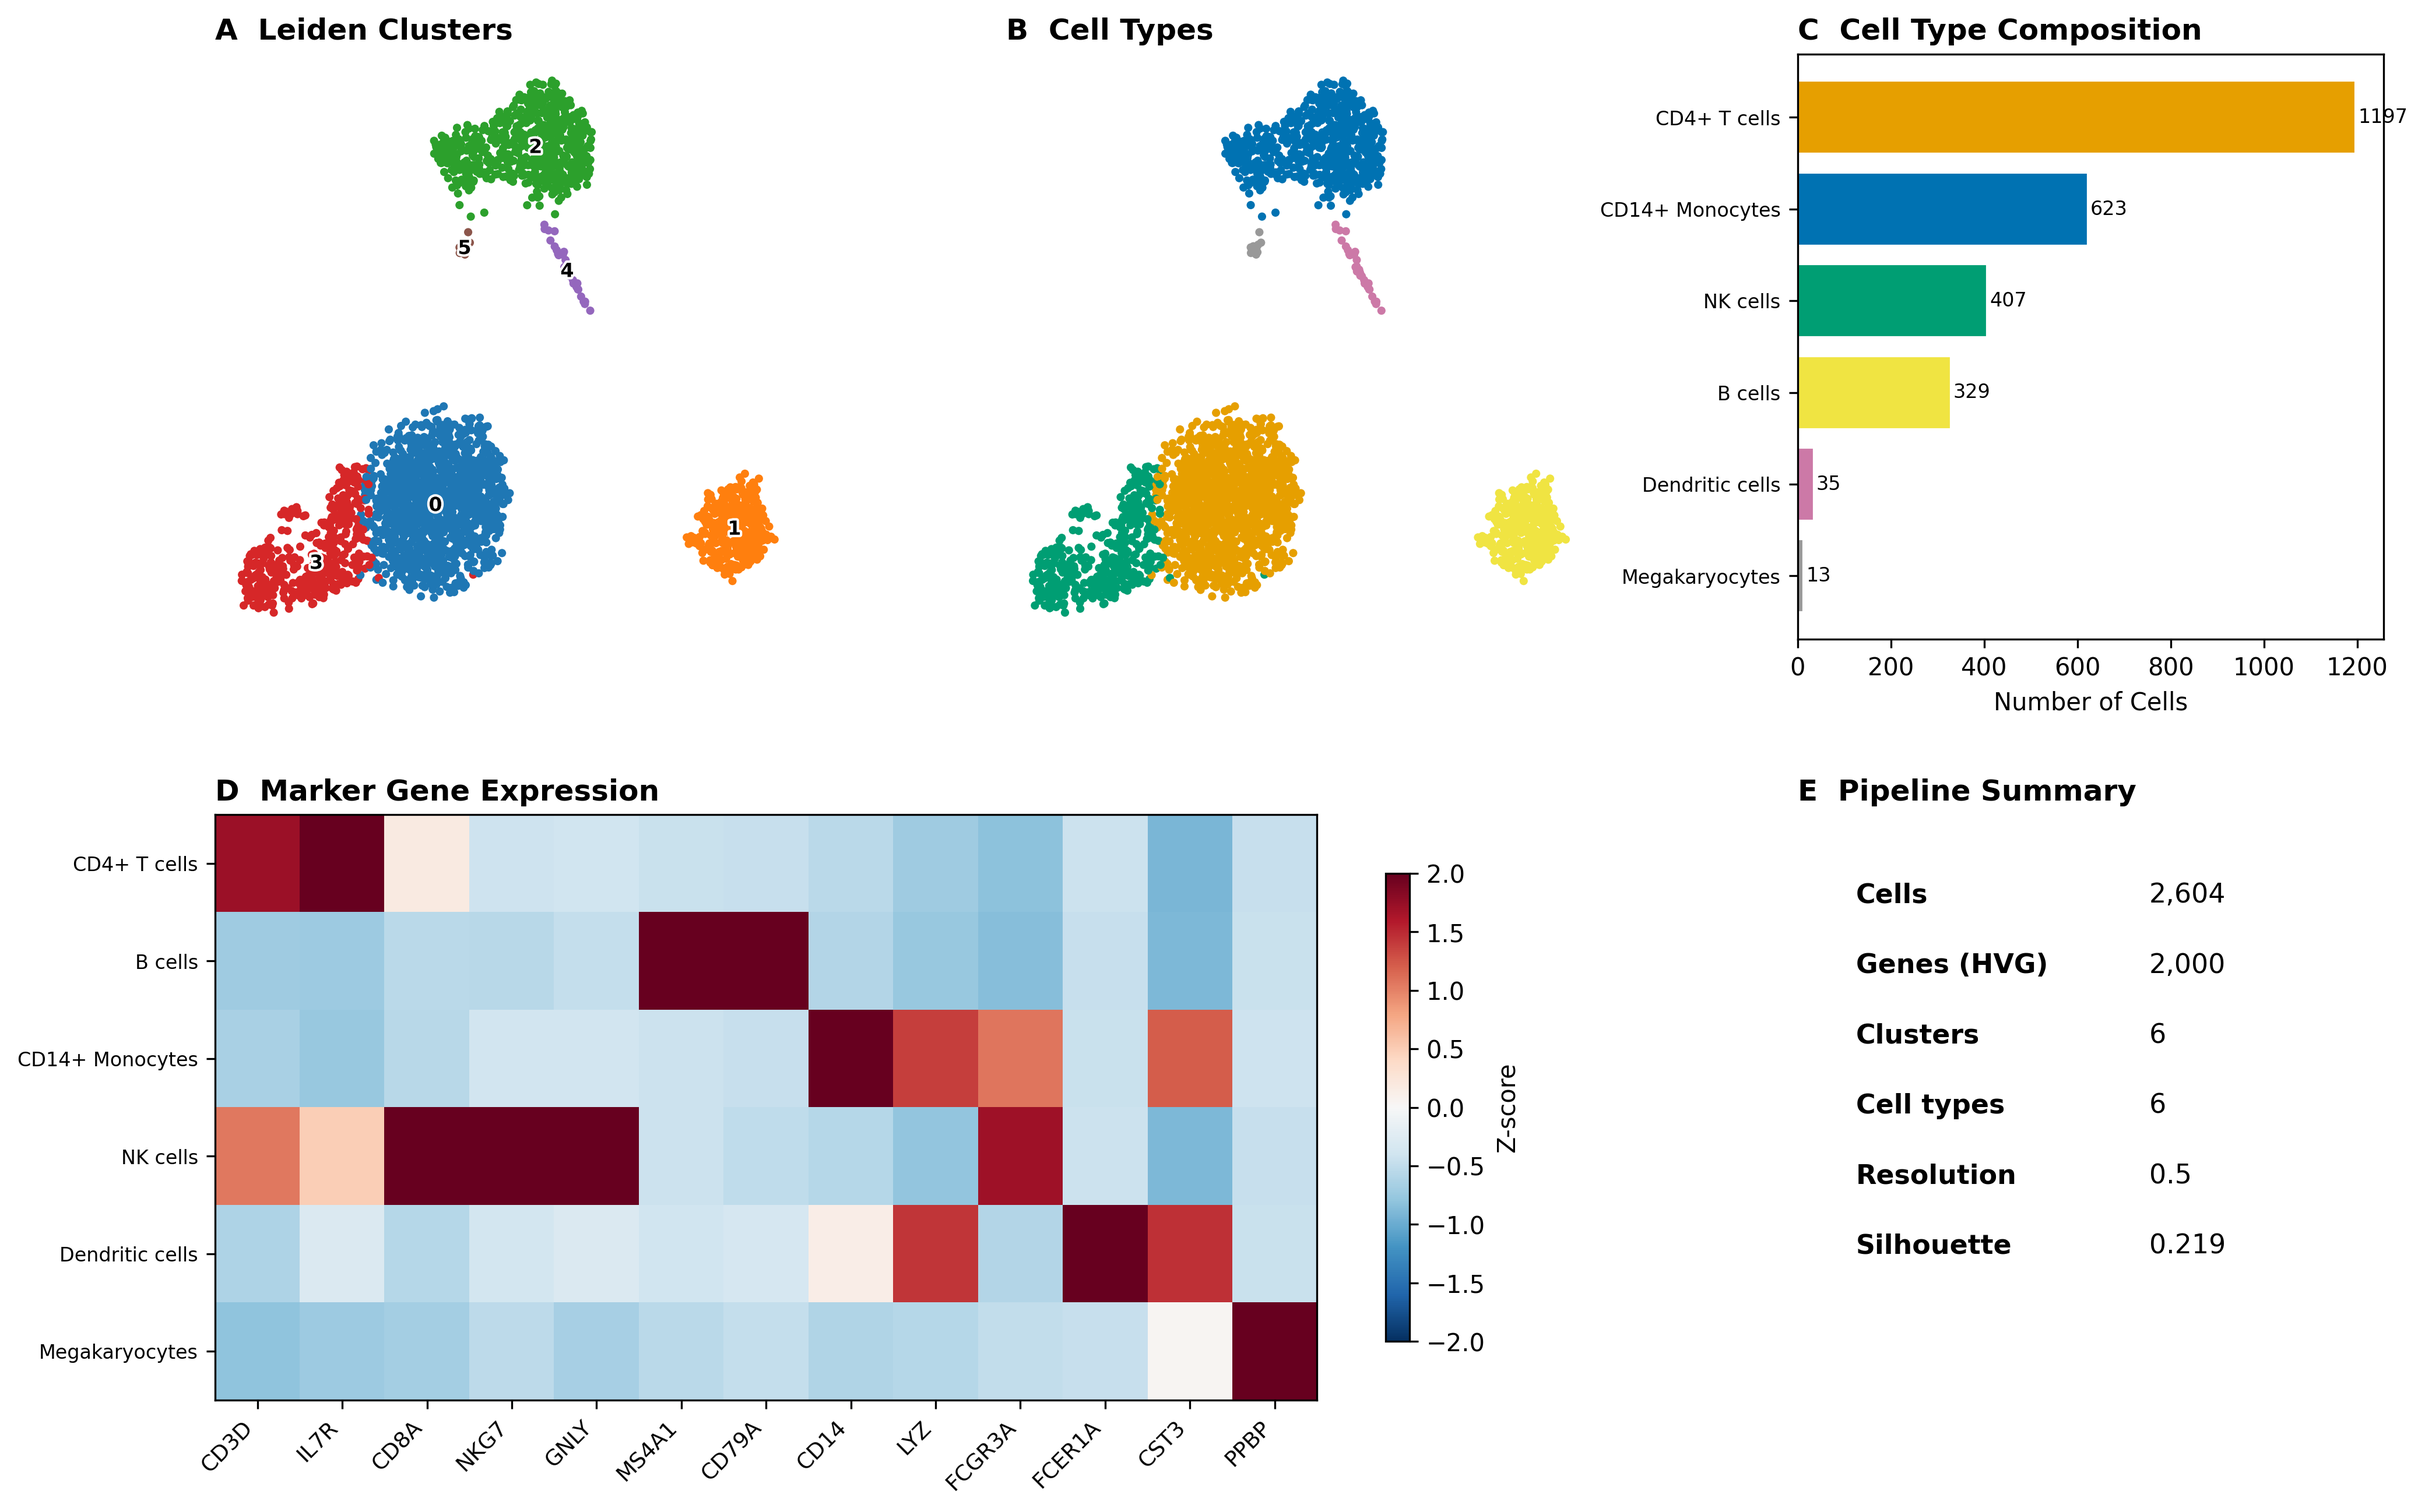
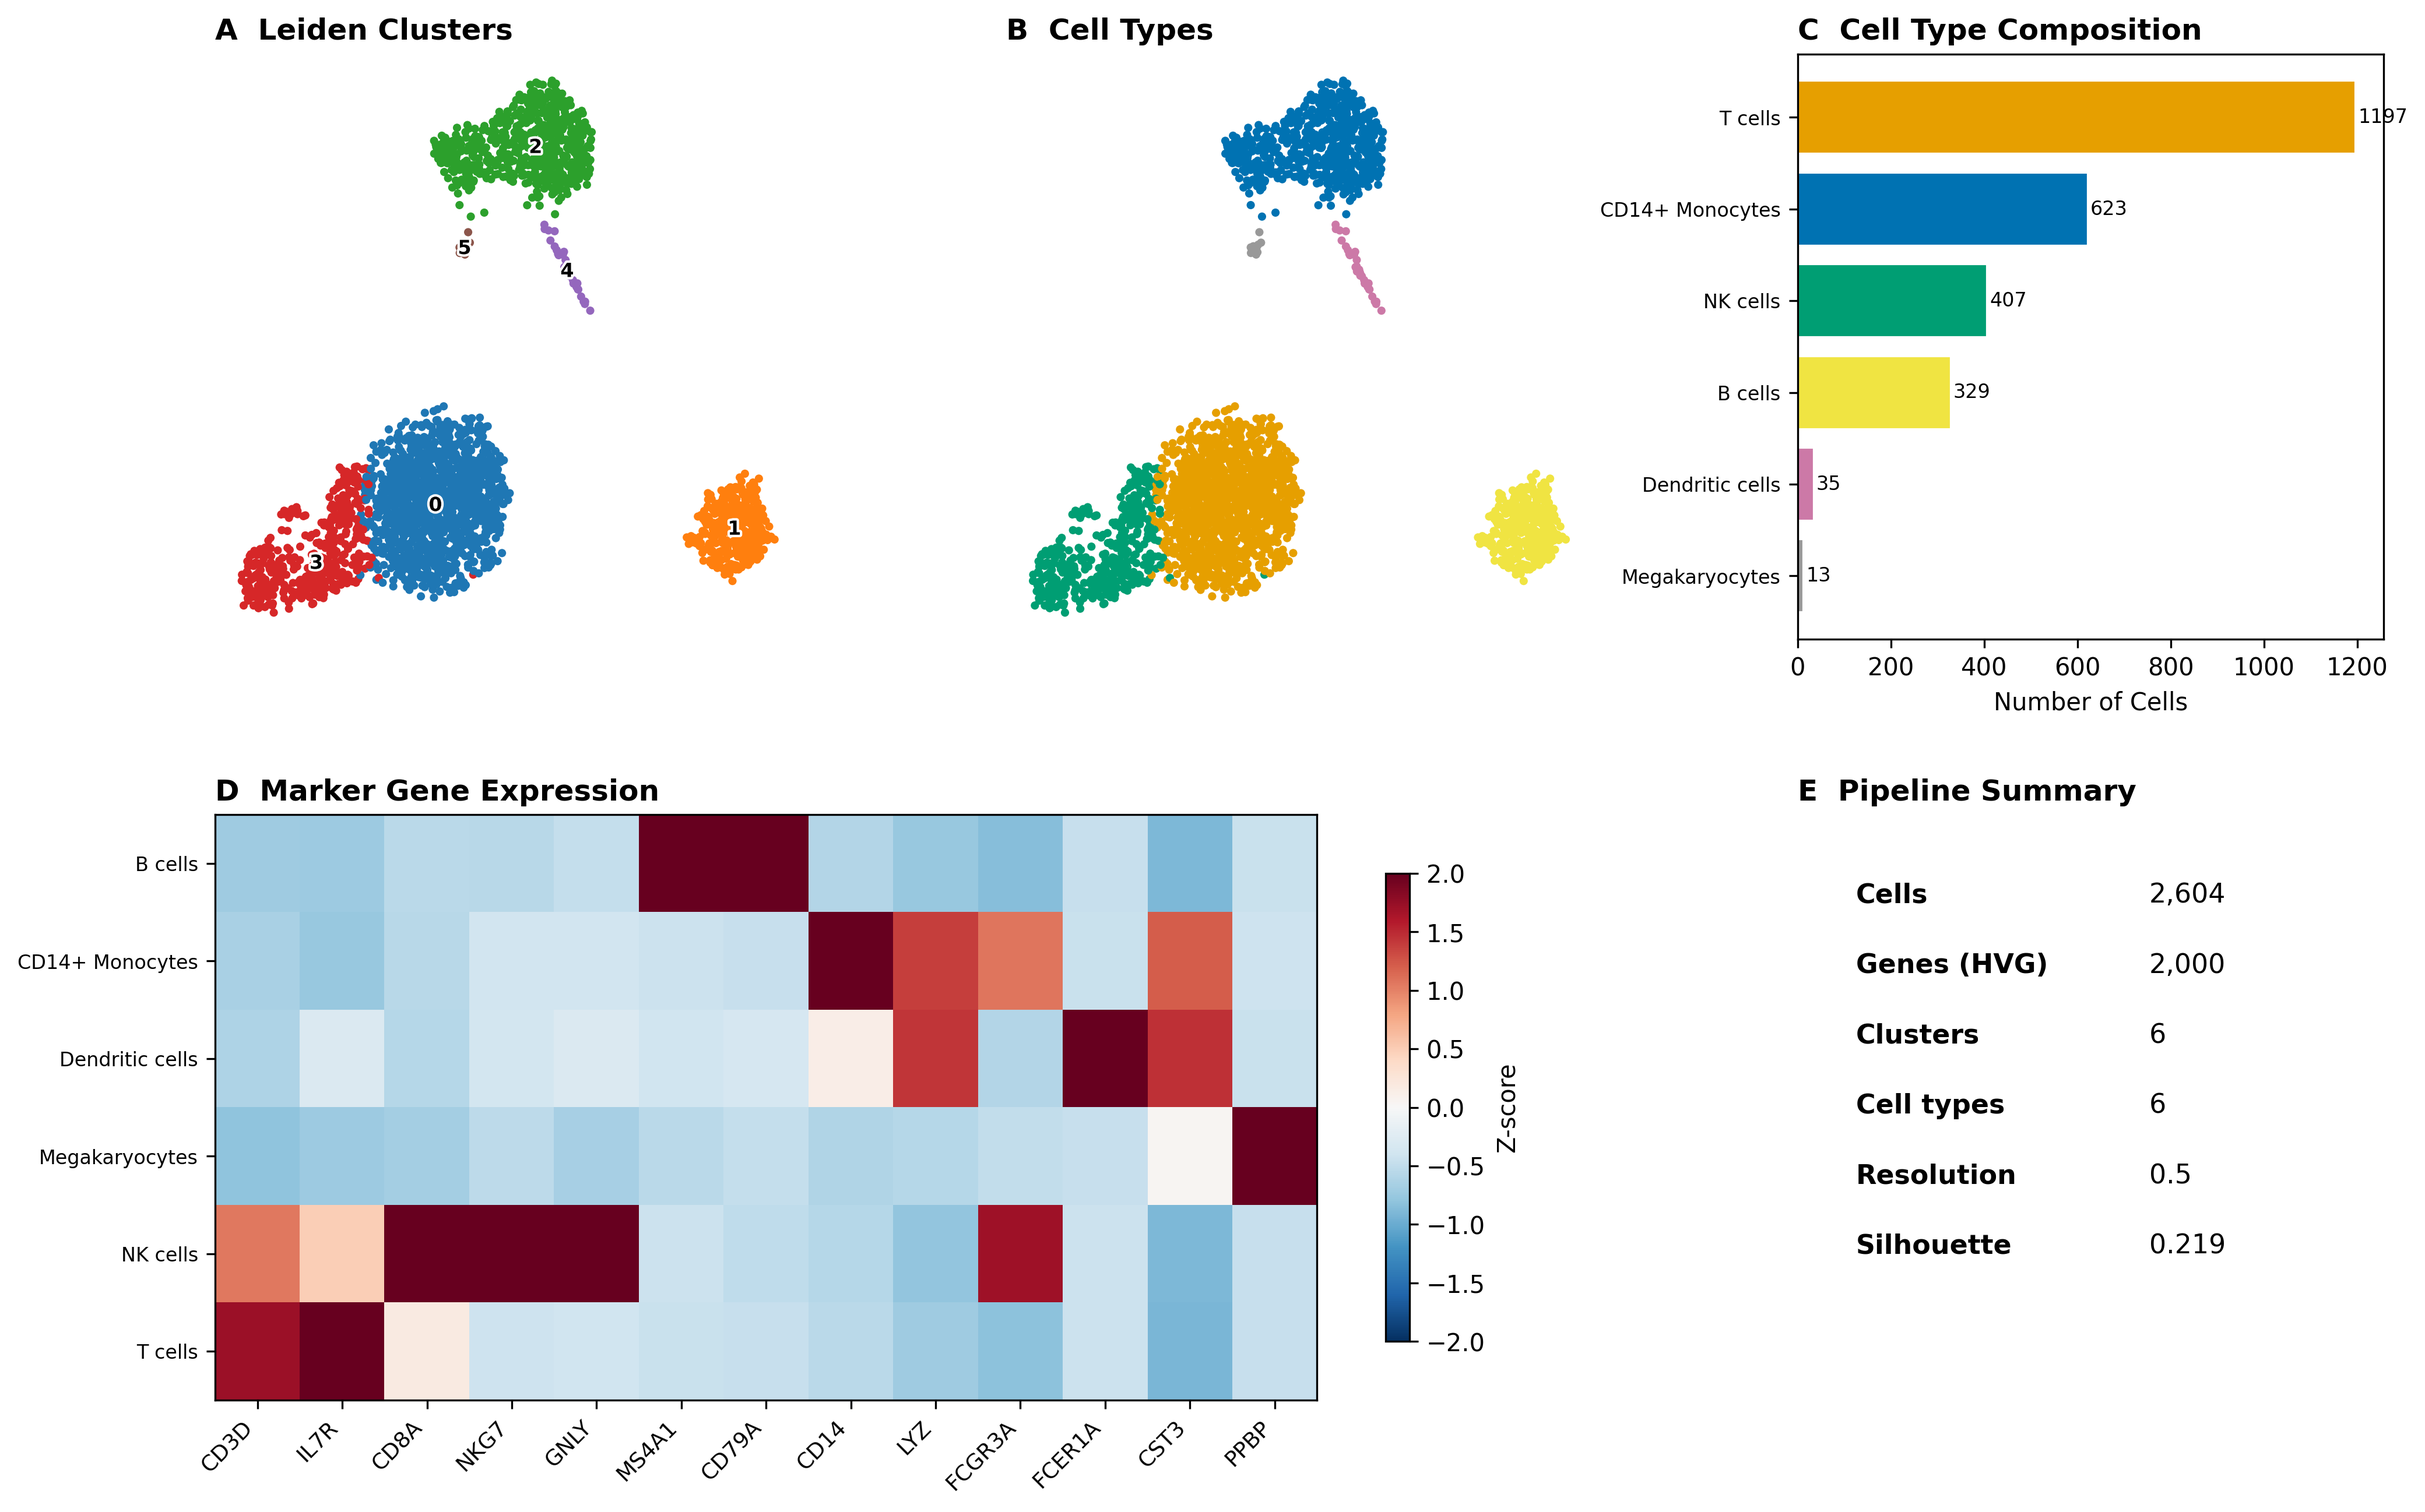
Show verified T-cell refinement in the rotating cell view

diff --git a/tests/test_visual_labels.py b/tests/test_visual_labels.py
@@ -1,0 +1,47 @@
+"""Ensure prominent figures use the correct annotation level and cell identities."""
+
+import importlib.util
+from pathlib import Path
+
+import anndata as ad
+import numpy as np
+import pytest
+
+spec = importlib.util.spec_from_file_location(
+    "visual_labels", Path(__file__).resolve().parents[1] / "scripts/visual_labels.py"
+)
+labels = importlib.util.module_from_spec(spec)
+spec.loader.exec_module(labels)
+
+
+def example():
+    parent = ad.AnnData(np.ones((4, 2)))
+    parent.obs_names = ["a", "b", "c", "d"]
+    parent.obs["cell_type"] = ["CD4+ T cells", "B cells", "CD4+ T cells", "CD8+ T cells"]
+    subset = parent[["d", "a", "c"]].copy()
+    subset.obs["t_subtype"] = ["CD8+ T", "CD4+ T", "CD8+ T"]
+    return parent, subset
+
+
+def test_refined_labels_follow_cell_ids_not_row_order():
+    parent, subset = example()
+    assert labels.refined_cell_types(parent, subset).tolist() == [
+        "CD4-like T cells", "B cells", "CD8-like T cells", "CD8-like T cells",
+    ]
+    assert labels.broad_cell_types(parent).tolist() == ["T cells", "B cells", "T cells", "T cells"]
+    assert parent.obs.loc["a", "cell_type"] == "CD4+ T cells"
+
+
+@pytest.mark.parametrize("case", ["missing", "unrelated", "duplicate", "unknown_subtype"])
+def test_incomplete_or_misaligned_refinement_cannot_generate_a_figure(case):
+    parent, subset = example()
+    if case == "missing":
+        subset = subset[:2].copy()
+    elif case == "unrelated":
+        subset.obs_names = ["b", "a", "c"]
+    elif case == "duplicate":
+        subset.obs_names = ["a", "a", "c"]
+    else:
+        subset.obs.loc["a", "t_subtype"] = "unknown"
+    with pytest.raises(ValueError):
+        labels.refined_cell_types(parent, subset)

diff --git a/scripts/visual_labels.py b/scripts/visual_labels.py
@@ -1,0 +1,27 @@
+"""Display labels that distinguish broad annotation from T-cell refinement."""
+
+import pandas as pd
+
+T_CELL_LABELS = {"CD4+ T cells", "CD8+ T cells"}
+SUBTYPE_LABELS = {"CD4+ T": "CD4-like T cells", "CD8+ T": "CD8-like T cells"}
+
+
+def broad_cell_types(adata):
+    labels = adata.obs["cell_type"].astype(str).copy()
+    return labels.mask(labels.isin(T_CELL_LABELS), "T cells").astype("category")
+
+
+def refined_cell_types(adata, t_cells):
+    """Join subtype evidence by cell ID, rejecting missing or unrelated cells."""
+    expected = adata.obs_names[adata.obs["cell_type"].isin(T_CELL_LABELS)]
+    if (not adata.obs_names.is_unique or not t_cells.obs_names.is_unique
+            or set(expected) != set(t_cells.obs_names)):
+        raise ValueError("T-cell refinement must match every broad T cell exactly once.")
+    if "t_subtype" not in t_cells.obs:
+        raise ValueError("T-cell refinement is missing t_subtype labels.")
+    subtypes = t_cells.obs["t_subtype"].astype(str).map(SUBTYPE_LABELS)
+    if subtypes.isna().any():
+        raise ValueError("T-cell refinement contains missing or unsupported subtype labels.")
+    labels = broad_cell_types(adata).astype(str)
+    labels.loc[subtypes.index] = subtypes
+    return pd.Series(labels, index=adata.obs_names, name="display_cell_type").astype("category")

diff --git a/scripts/make_3d_umap_gif.py b/scripts/make_3d_umap_gif.py
@@ -8,6 +8,7 @@ import matplotlib.pyplot as plt
 import numpy as np
 import scanpy as sc
 from palette import PALETTE
+from visual_labels import refined_cell_types
 
 RESULTS_DIR = Path("results")
 DOCS_DIR = Path("docs")
@@ -79,13 +80,14 @@ def main():
     in_path = RESULTS_DIR / "05_annotated.h5ad"
     adata = sc.read_h5ad(in_path)
     print(f"Loaded {in_path}")
+    t_cells = sc.read_h5ad(RESULTS_DIR / "07_t_cells.h5ad")
+    cell_types = refined_cell_types(adata, t_cells)
 
     if "neighbors" not in adata.uns:
         sc.pp.neighbors(adata, n_neighbors=15, n_pcs=40)
 
     print("Computing 3D UMAP...")
     coords = compute_3d_umap(adata)
-    cell_types = adata.obs["cell_type"]
 
     print(f"Rendering {N_FRAMES} frames...")
     frames = []

diff --git a/scripts/08_publication_figures.py b/scripts/08_publication_figures.py
@@ -7,6 +7,7 @@ import pandas as pd
 import scanpy as sc
 from matplotlib import gridspec
 from palette import PALETTE
+from visual_labels import broad_cell_types
 
 RESULTS_DIR = Path("results")
 FIG_DIR = RESULTS_DIR / "figures"
@@ -21,6 +22,9 @@ KEY_MARKERS = [
 
 def make_figure(adata):
     """Create a multi-panel publication figure."""
+    # Broad cluster assignments must not imply that every T cell is CD4+.
+    adata = adata.copy()
+    adata.obs["cell_type"] = broad_cell_types(adata)
     FIG_DIR.mkdir(parents=True, exist_ok=True)
 
     fig = plt.figure(figsize=(16, 10))

diff --git a/scripts/palette.py b/scripts/palette.py
@@ -1,6 +1,9 @@
 """Shared Okabe-Ito colourblind-friendly palette for PBMC cell types."""
 
 PALETTE = {
+    "T cells": "#E69F00",
+    "CD4-like T cells": "#E69F00",
+    "CD8-like T cells": "#56B4E9",
     "CD4+ T cells": "#E69F00",
     "CD8+ T cells": "#56B4E9",
     "NK cells": "#009E73",

diff --git a/README.md b/README.md
@@ -49,12 +49,13 @@ monocytes, NK cells, B cells, dendritic cells and a 13-cell candidate
 megakaryocyte/platelet-like population.
 
 <p align="center">
-  <img src="docs/umap_3d_rotation.gif" alt="Rotating 3D UMAP of 2,604 blood cells, coloured by candidate immune-cell identity" width="600">
+  <img src="docs/umap_3d_rotation.gif" alt="Rotating 3D UMAP of 2,604 blood cells, showing broad immune groups and refined CD4-like and CD8-like T cells" width="600">
 </p>
 
 <p align="center">
   <strong>2,604 cells, viewed in 3D.</strong><br>
-  Colours show candidate immune-cell groups; positions summarise gene-expression similarity.
+  Colours reveal immune-cell groups and the refined CD4-like/CD8-like T-cell split.<br>
+  Positions summarise gene-expression similarity.
 </p>
 
 <details>

diff --git a/docs/verification.md b/docs/verification.md
@@ -21,6 +21,13 @@ lint passed. Tests cover both analysis primitives and the project's execution,
 annotation and output-integrity contracts. The optional animation was generated
 from the same annotated cells.
 
+The subsequent display-label correction adds five regression tests (**23 total**).
+The 3D view now joins the 638 CD4-like and 559 CD8-like labels by cell ID from
+`07_t_cells.h5ad`; missing, duplicated or unrelated cells stop figure generation.
+The static summary shows the six broad populations and labels the mixed
+T-cell compartment simply as **T cells**. Neither display change alters the
+underlying annotation scores, clusters or subtype counts.
+
 The raw cached `.h5ad` input has SHA-256:
 
 ```text
